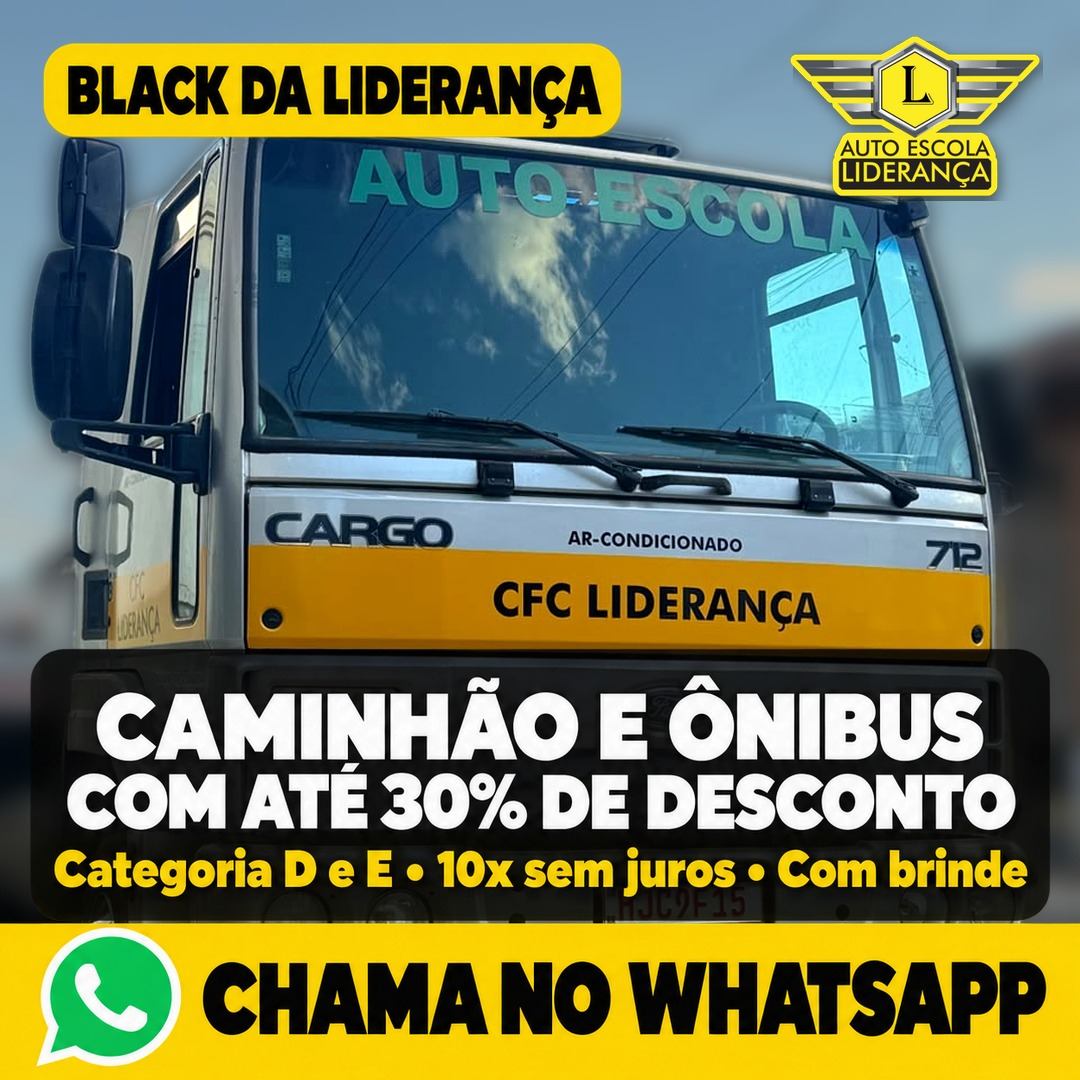
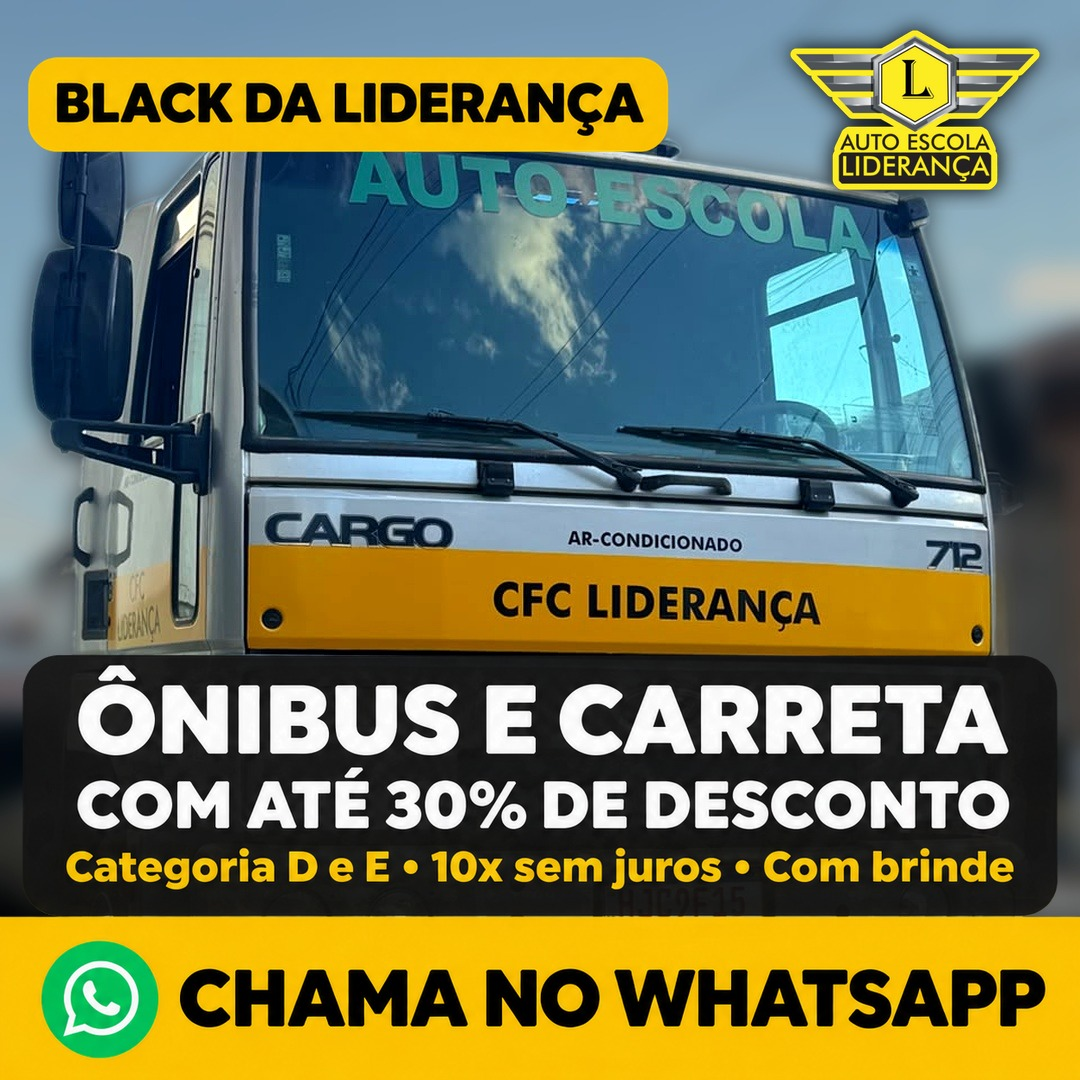
fix: AD 24 — ônibus e carreta (não caminhão) na arte e em todos os textos

diff --git a/07-TRAFEGO-PAGO/estrategia-novembro.html b/07-TRAFEGO-PAGO/estrategia-novembro.html
@@ -129,7 +129,7 @@
 
   <div class="grupo">As sete lições</div>
   <div class="doc-grid">
-    <div class="bloco"><div class="et">1 · Ângulo mais forte</div><h3>Caminhão e ônibus puxam a conversa</h3><p>A peça de categorias D e E trouxe uma em cada três conversas do mês, nas duas unidades, com o menor custo. Na Black ela continua e ganha uma versão com o desconto.</p></div>
+    <div class="bloco"><div class="et">1 · Ângulo mais forte</div><h3>Ônibus e carreta puxam a conversa</h3><p>A peça de categorias D e E trouxe uma em cada três conversas do mês, nas duas unidades, com o menor custo. Na Black ela continua e ganha uma versão com o desconto.</p></div>
     <div class="bloco"><div class="et">2 · Vídeo vende mais</div><h3>O vídeo do Samuel é o segundo melhor anúncio</h3><p>Um único vídeo de 20 segundos trouxe 39 conversas. O vídeo da Black, gravado na sexta 30/10, é a peça mais importante de novembro.</p></div>
     <div class="bloco"><div class="et">3 · Diferença entre unidades</div><h3>Brasília de Minas responde melhor</h3><p>Mesma verba, 85 conversas contra 66. Coração de Jesus não recebe mais verba (regra do projeto): recebe peças novas e o Samuel em vídeo.</p></div>
     <div class="bloco"><div class="et">4 · Prova social só onde funciona</div><h3>Aprovados converte em BM, não em CJ</h3><p>A mesma peça custou R$ 4,68 por conversa em Brasília de Minas e R$ 41 em Coração de Jesus. Em novembro, aprovados só em BM.</p></div>
@@ -146,8 +146,8 @@
   <table class="t">
     <thead><tr><th>Grupo de anúncios</th><th>Verba por dia</th><th>Para quem</th><th>O que mostra</th></tr></thead>
     <tbody>
-      <tr><td>CJ · Coração de Jesus</td><td>R$ 15</td><td class="m">18 a 45 anos, 25 km ao redor de Coração de Jesus, só quem mora na região</td><td class="m">Black geral com o Samuel, carro, carro e moto, caminhão e ônibus, vídeo da Black</td></tr>
-      <tr><td>BM · Brasília de Minas</td><td>R$ 15</td><td class="m">18 a 45 anos, 30 km ao redor de Brasília de Minas, só quem mora na região</td><td class="m">Black geral com o Gabriel, moto, caminhão e ônibus, aprovados, vídeo da Black</td></tr>
+      <tr><td>CJ · Coração de Jesus</td><td>R$ 15</td><td class="m">18 a 45 anos, 25 km ao redor de Coração de Jesus, só quem mora na região</td><td class="m">Black geral com o Samuel, carro, carro e moto, ônibus e carreta, vídeo da Black</td></tr>
+      <tr><td>BM · Brasília de Minas</td><td>R$ 15</td><td class="m">18 a 45 anos, 30 km ao redor de Brasília de Minas, só quem mora na região</td><td class="m">Black geral com o Gabriel, moto, ônibus e carreta, aprovados, vídeo da Black</td></tr>
       <tr><td>Perfil · Visitas ao Instagram <span class="tag tag-rx">ajustado em 04/11</span></td><td>R$ 6</td><td class="m">18 a 45 anos, 40 km ao redor das duas cidades, leva a pessoa ao perfil @autoescolalideranca.bm</td><td class="m">Vídeo da Black com o Samuel (AD 27). O grupo de quem já conversou fica para depois: o público precisa ser criado no Gerenciador.</td></tr>
       <tr class="tot"><td>Total</td><td>R$ 36</td><td class="m" colspan="2">Igual a outubro. Nenhum aumento de orçamento em nenhuma fase.</td></tr>
     </tbody>
@@ -166,7 +166,7 @@
       <tr><td>AD 21</td><td>Carteira de carro com até 30% de desconto</td><td>03/11</td><td class="m">CJ</td><td class="m">O pacote mais procurado, com o desconto na cara</td></tr>
       <tr><td>AD 22</td><td>Carteira de moto com até 30% de desconto</td><td>03/11</td><td class="m">BM</td><td class="m">Repete o acerto da peça de moto de outubro</td></tr>
       <tr><td>AD 23</td><td>Carro e moto com até 30% de desconto</td><td>03/11</td><td class="m">CJ · RMK</td><td class="m">Pacote completo para quem quer as duas carteiras</td></tr>
-      <tr><td>AD 24</td><td>Caminhão e ônibus com até 30% de desconto</td><td>03/11</td><td class="m">CJ · BM</td><td class="m">Versão Black do melhor anúncio de outubro</td></tr>
+      <tr><td>AD 24</td><td>Ônibus e carreta com até 30% de desconto</td><td>03/11</td><td class="m">CJ · BM</td><td class="m">Versão Black do melhor anúncio de outubro</td></tr>
       <tr><td>AD 25</td><td>+500 aprovados na Black</td><td>03/11</td><td class="m">BM · RMK</td><td class="m">Prova social, só onde funcionou</td></tr>
       <tr><td>AD 26</td><td>Última semana: a Black acaba dia 30</td><td>19/11</td><td class="m">CJ · BM · RMK</td><td class="m">Urgência real nos últimos doze dias</td></tr>
       <tr><td>AD 27</td><td>Vídeo da Black · Samuel e Gabriel</td><td>04 ou 05/11</td><td class="m">CJ · BM</td><td class="m">Peça principal do mês; substitui o vídeo de outubro</td></tr>

diff --git a/06-CRIATIVOS-ADS/roteiros-black.html b/06-CRIATIVOS-ADS/roteiros-black.html
@@ -56,7 +56,7 @@
   <h2>Uma sessão de manhã, <em>três vídeos</em></h2>
   <p>Mesmo esquema do vídeo de outubro, que foi o segundo melhor anúncio do mês: celular na vertical, lapela ou ambiente silencioso, olho na câmera, sem ler. Cada porta-voz grava na sua unidade.</p>
   <div class="doc-grid">
-    <div class="bloco"><div class="et">Ordem</div><h3>Prioridade</h3><ol><li><b>VB01 · Lançamento da Black</b> (obrigatório; vira anúncio e Reels de 03/11).</li><li><b>VB02 · Quanto custa</b> (responde a maior dúvida).</li><li><b>VB03 · Caminhão e ônibus</b> (só o Samuel, ao lado da carreta).</li></ol></div>
+    <div class="bloco"><div class="et">Ordem</div><h3>Prioridade</h3><ol><li><b>VB01 · Lançamento da Black</b> (obrigatório; vira anúncio e Reels de 03/11).</li><li><b>VB02 · Quanto custa</b> (responde a maior dúvida).</li><li><b>VB03 · Ônibus e carreta</b> (só o Samuel, ao lado da carreta).</li></ol></div>
     <div class="bloco"><div class="et">Dois finais</div><h3>Grave o fechamento duas vezes</h3><p>Cada vídeo termina de dois jeitos: um para o anúncio (<b>“toca em Enviar mensagem”</b>) e um para o Reels (<b>“link na bio”</b>). São 5 segundos a mais e evitam regravar.</p></div>
     <div class="bloco"><div class="et">Cenário</div><h3>Pátio ou fachada, luz natural</h3><p>Carro de aula ao fundo com a logo visível. Nada de contraluz: o sol fica atrás do celular, não atrás da pessoa. Camisa da autoescola.</p></div>
     <div class="bloco"><div class="et">Entrega</div><h3>Vídeo bruto no grupo até sexta à tarde</h3><p>Mandar o arquivo original (sem compressão) no grupo do WhatsApp do projeto. A edição (corte, legenda, logo e tabela na tela) fica com a ADS Company e sai até quarta 04/11.</p></div>
@@ -96,9 +96,9 @@
 
 <section class="section" id="vb03">
   <p class="section-num">VB03 · Categorias D e E</p>
-  <h2>Caminhão e ônibus na Black</h2>
+  <h2>Ônibus e carreta na Black</h2>
   <p><span class="tag tag-cj">Samuel · CJ</span><span class="tag tag-t">15 a 20 segundos</span> Versão em vídeo do melhor anúncio de outubro. Entra em 09/11 nos dois grupos (o vídeo do Samuel roda também em BM, como em outubro).</p>
-  <div class="fala"><small>Gancho · 0 a 3 s</small>Já tem a carteira e quer trabalhar com caminhão ou ônibus? Olha isso.</div>
+  <div class="fala"><small>Gancho · 0 a 3 s</small>Já tem a carteira e quer trabalhar com ônibus ou carreta? Olha isso.</div>
   <div class="fala"><small>Desenvolvimento · 3 a 14 s</small>Na Black da Liderança, a categoria D e a categoria E, de carreta, saem com até 30% de desconto, em dez vezes sem juros e com brinde. Dez aulas, veículo com ar-condicionado e o deslocamento para o exame já incluídos. Só até 30 de novembro.</div>
   <div class="fala"><small>Fechamento para o anúncio · 14 a 18 s</small>Toca em “Enviar mensagem” e garante sua vaga na primeira turma.</div>
   <div class="fala"><small>Fechamento para o Reels · 14 a 18 s</small>Chama no WhatsApp, o link está na bio.</div>

diff --git a/06-CONTEUDO/calendario-novembro.html b/06-CONTEUDO/calendario-novembro.html
@@ -512,7 +512,7 @@ Quem ficou de fora: a próxima condição sai primeiro no grupo. Link na bio.
   <p>Os anúncios da Black entram em terça 03/11, antes de a condição sair no grupo VIP às 9h, com a mesma verba de outubro (R$ 36 por dia). A estratégia completa, as peças e os roteiros ficam nas páginas de tráfego; aqui está só o que a equipe precisa saber para o orgânico e o anúncio andarem juntos.</p>
   <div class="tres">
     <div class="bloco"><div class="et">Páginas</div><h3>Onde está tudo</h3><ul><li><a href="../07-TRAFEGO-PAGO/estrategia-novembro.html">Estratégia de tráfego de novembro</a></li><li><a href="../06-CRIATIVOS-ADS/criativos-black-novembro.html">Criativos da Black (AD 20 a AD 27)</a></li><li><a href="../06-CRIATIVOS-ADS/roteiros-black.html">Roteiros dos vídeos de anúncio</a></li></ul></div>
-    <div class="bloco"><div class="et">Datas em que o anúncio muda</div><h3>Seis viradas no mês</h3><ul><li><strong>Ter 03/11:</strong> entram as peças da Black (geral, carro, moto, carro e moto, caminhão e ônibus, aprovados).</li><li><strong>Qua 04 ou qui 05/11:</strong> entra o vídeo da Black gravado em 30/10.</li><li><strong>Seg 09/11 e seg 16/11:</strong> rotação: sai o que ficou caro.</li><li><strong>Qui 19/11:</strong> entra a peça “a Black acaba dia 30”.</li><li><strong>Seg 23/11:</strong> última semana vira a peça principal.</li><li><strong>Ter 01/12:</strong> peças da Black saem do ar.</li></ul></div>
+    <div class="bloco"><div class="et">Datas em que o anúncio muda</div><h3>Seis viradas no mês</h3><ul><li><strong>Ter 03/11:</strong> entram as peças da Black (geral, carro, moto, carro e moto, ônibus e carreta, aprovados).</li><li><strong>Qua 04 ou qui 05/11:</strong> entra o vídeo da Black gravado em 30/10.</li><li><strong>Seg 09/11 e seg 16/11:</strong> rotação: sai o que ficou caro.</li><li><strong>Qui 19/11:</strong> entra a peça “a Black acaba dia 30”.</li><li><strong>Seg 23/11:</strong> última semana vira a peça principal.</li><li><strong>Ter 01/12:</strong> peças da Black saem do ar.</li></ul></div>
     <div class="bloco"><div class="et">O que a equipe faz</div><h3>Anúncio e perfil, a mesma história</h3><ul><li>Link do grupo VIP na bio e o WhatsApp de cada unidade conferido antes de 03/11.</li><li>Toda conversa que chega pelo anúncio recebe a tabela da Black no primeiro contato.</li><li>Dois contatos em 48 horas para quem não respondeu; matrícula lançada na planilha no mesmo dia, com a unidade certa.</li><li>Os vídeos VB01, VB02 e VB03 têm dois finais: um para o anúncio e um para o Reels.</li></ul></div>
   </div>
   <div class="destaque"><strong>Sem aumento de verba em nenhuma fase.</strong> O que muda ao longo do mês são as peças; o painel mostra todo dia às 7h o que está rendendo, e a parcial de segunda, quarta e sexta vai ao grupo com o link.</div>

diff --git a/06-CRIATIVOS-ADS/index.html b/06-CRIATIVOS-ADS/index.html
@@ -128,7 +128,7 @@
       <div class="doc-card-body">
         <div class="doc-card-tag" style="color:var(--laranja);">9 peças · entram em 03/11</div>
         <div class="doc-card-title">Criativos da Black (AD 20 a AD 27)</div>
-        <div class="doc-card-desc">Black geral com Samuel e Gabriel, carro, moto, carro e moto, caminhão e ônibus, aprovados e última semana. Texto principal, título, descrição e saudação de cada anúncio com botão de copiar.</div>
+        <div class="doc-card-desc">Black geral com Samuel e Gabriel, carro, moto, carro e moto, ônibus e carreta, aprovados e última semana. Texto principal, título, descrição e saudação de cada anúncio com botão de copiar.</div>
         <div class="doc-card-footer"><span class="doc-card-status status-ready">Concluído</span><div class="doc-card-arrow"><svg viewBox="0 0 24 24"><polyline points="9 18 15 12 9 6"/></svg></div></div>
       </div>
     </a>
@@ -140,7 +140,7 @@
       <div class="doc-card-body">
         <div class="doc-card-tag" style="color:var(--roxo);">3 vídeos · gravação 30/10</div>
         <div class="doc-card-title">Roteiros da Black</div>
-        <div class="doc-card-desc">Lançamento (vira o AD 27), quanto custa e caminhão e ônibus. Cada um com dois finais: para o anúncio e para o Reels.</div>
+        <div class="doc-card-desc">Lançamento (vira o AD 27), quanto custa e ônibus e carreta. Cada um com dois finais: para o anúncio e para o Reels.</div>
         <div class="doc-card-footer"><span class="doc-card-status status-ready">Concluído</span><div class="doc-card-arrow"><svg viewBox="0 0 24 24"><polyline points="9 18 15 12 9 6"/></svg></div></div>
       </div>
     </a>

diff --git a/06-CRIATIVOS-ADS/criativos-black-novembro.html b/06-CRIATIVOS-ADS/criativos-black-novembro.html
@@ -195,15 +195,15 @@ Pacotes de 5 + 5, 10 + 10, 15 + 15 e 20 + 20 aulas.
 
   <!-- AD 24 -->
   <div class="peca">
-    <img src="novembro/bk-05-black-cat-d-e.jpg" alt="Caminhão e ônibus na Black" loading="lazy">
+    <img src="novembro/bk-05-black-cat-d-e.jpg" alt="Ônibus e carreta na Black" loading="lazy">
     <div class="lado">
       <span class="ad">AD 24 · Categorias D e E</span>
-      <h3>Caminhão e ônibus com até 30% de desconto</h3>
+      <h3>Ônibus e carreta com até 30% de desconto</h3>
       <div class="badges"><span class="badge b-cj">Grupo CJ</span><span class="badge b-bm">Grupo BM</span><span class="badge b-dt">Entra em 03/11</span></div>
       <div class="rot">Nome no Gerenciador</div>
       <div class="cp"><span>AD 24 - BLACK CAT D E E</span><button>Copiar</button></div>
       <div class="rot">Texto principal</div>
-      <div class="cp"><p>🚛🚍 Já tem a carteira e quer trabalhar com caminhão ou ônibus?
+      <div class="cp"><p>🚍🚛 Já tem a carteira e quer trabalhar com ônibus ou carreta?
 
 Na Black da Liderança, categoria D e categoria E com até 30% de desconto e direito a brinde, em 10x sem juros.
 

diff --git a/06-CONTEUDO/grupo-vip-black.html b/06-CONTEUDO/grupo-vip-black.html
@@ -112,7 +112,7 @@ Quem fechar a matrícula no dia leva brinde. 🎁
 É só chegar. Mas se quiser avisar que vai, responde aqui com a sua cidade.</p><button>Copiar</button></div></div>
 
   <div class="msg"><div class="cab"><span class="data">Terça 10/11</span><span class="hora">9h</span><span class="tipo">Categoria E</span></div><div class="obs">Vai com o vídeo da carreta (Reels de 11/11, pode adiantar) ou com a foto da carreta.</div>
-  <div class="cp"><p>🚛 *Você já tem carteira e quer trabalhar com caminhão ou ônibus?*
+  <div class="cp"><p>🚛 *Você já tem carteira e quer trabalhar com ônibus ou carreta?*
 
 A Liderança tem categoria D e categoria E aqui na região, com veículo com ar-condicionado, dez aulas e o deslocamento para o exame já incluídos.
 
